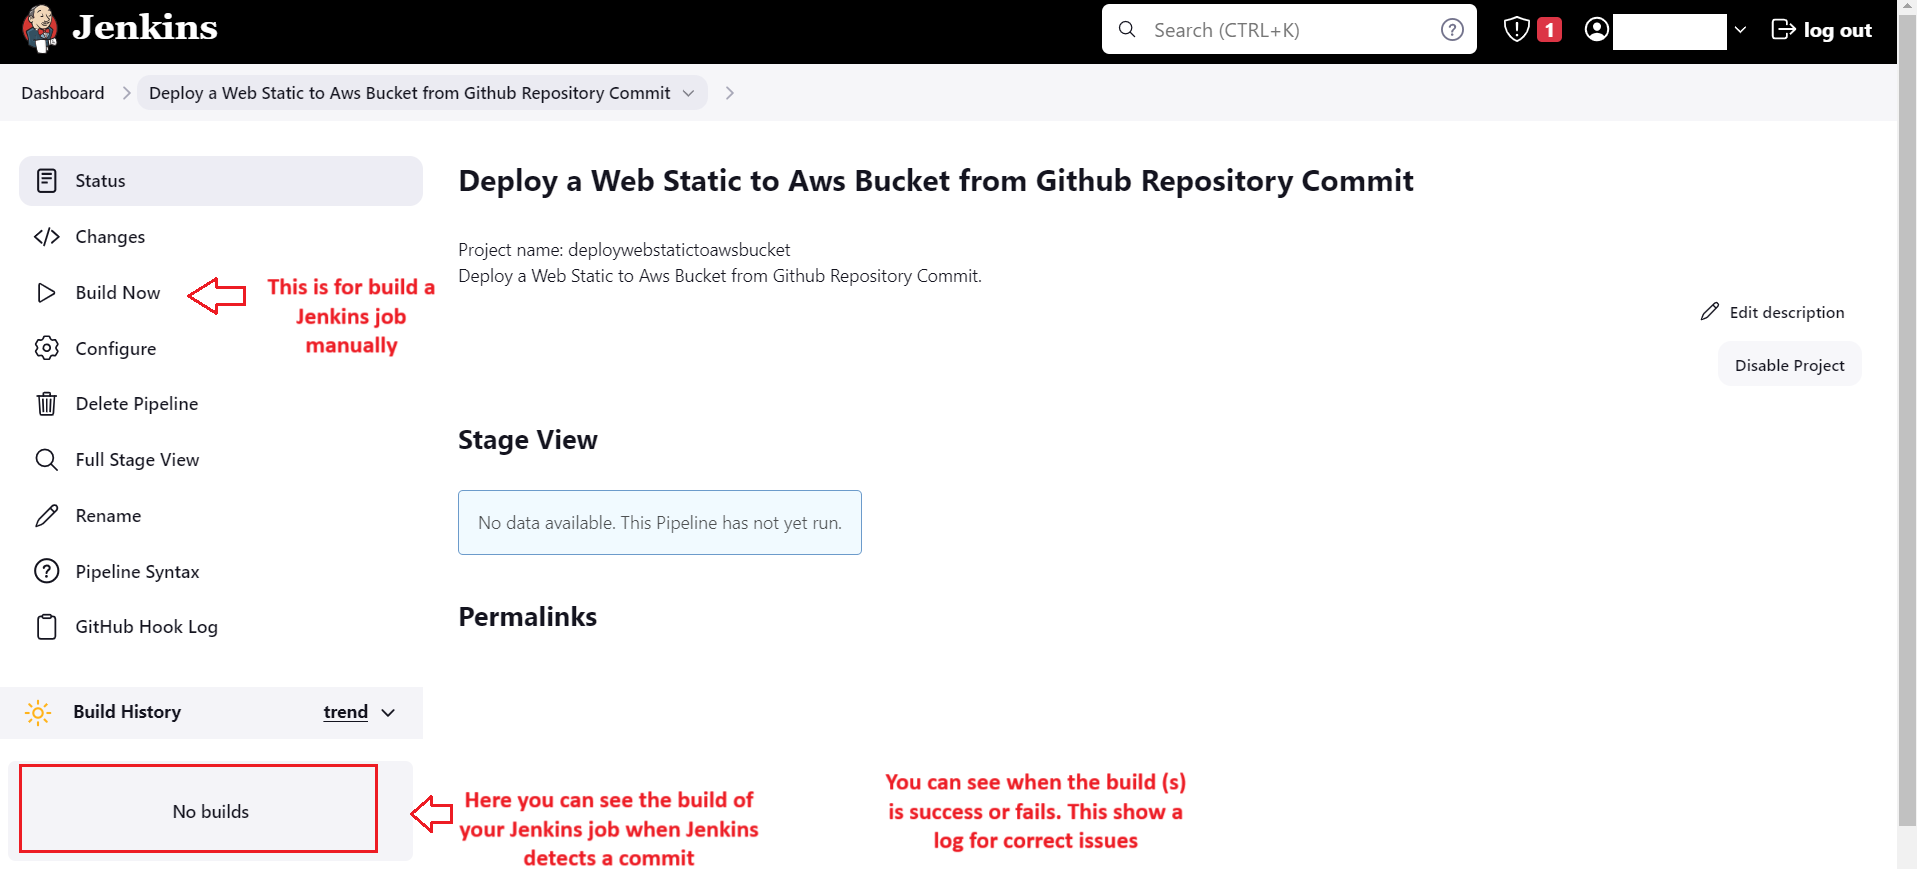
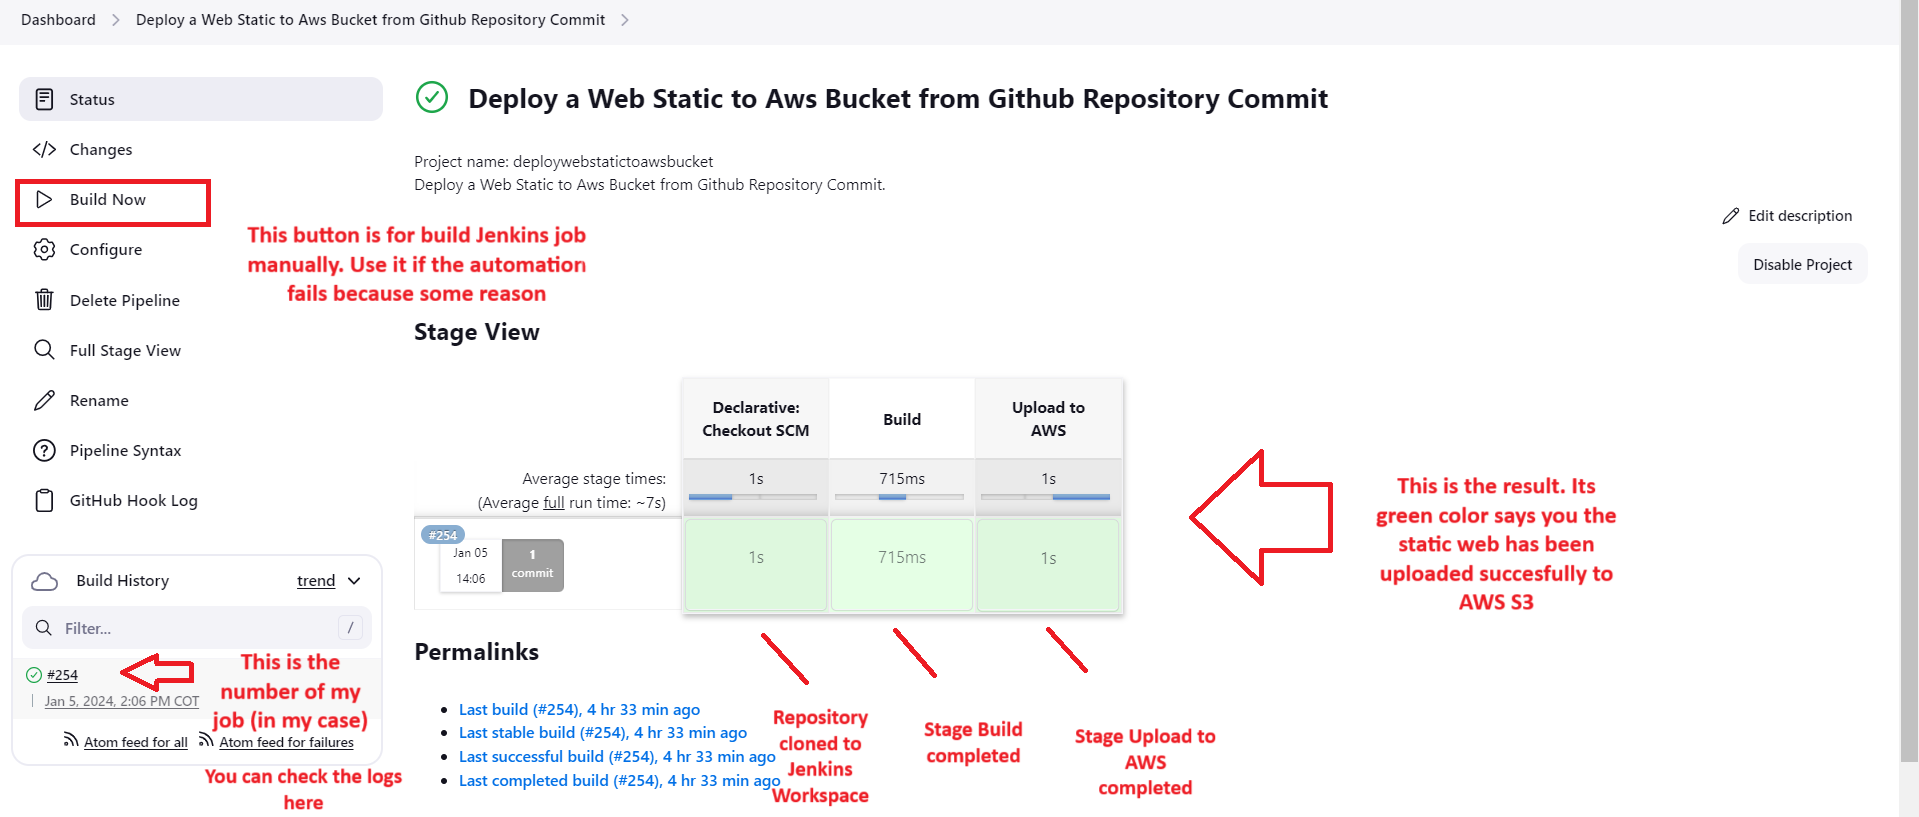
push

diff --git a/Devops-pipeline-with-jenkins-bucketS3-github/Readme.md b/Devops-pipeline-with-jenkins-bucketS3-github/Readme.md
@@ -9,7 +9,7 @@ In the world of software development, ensuring smooth and efficient collaboratio
 
 ## Solution
 
-In this tutorial, we'll create a basic DevOps pipeline using AWS Free Tier services and the open-source tool Jenkins. This pipeline will automate the process of building, testing, and deploying a sample application.
+In this tutorial, we'll create a basic DevOps pipeline using AWS Free Tier services and the open-source tool Jenkins. This pipeline will automate the process of building and deploying a static web from a Github commit pushed.
 
 ## Pipeline Process
 
@@ -33,7 +33,7 @@ If you don't have an AWS account, sign up for the AWS Free Tier. This tier provi
 
 <span>![</span><span></span><span>]</span><span>(</span><span>![Screenshot](assets/2.2.png)</span><span>)</span>
 
-- Configure security groups to allow inbound traffic on port 8080 for Jenkins and enable SSH.
+- Configure security groups to allow inbound traffic from Anywhere on port 8080 for Jenkins and enable SSH.
 
 <span>![</span><span></span><span>]</span><span>(</span><span>![Screenshot](assets/2.3.png)</span><span>)</span>
 
@@ -114,11 +114,17 @@ If you don't have an AWS account, sign up for the AWS Free Tier. This tier provi
 
 <span>![</span><span></span><span>]</span><span>(</span><span>![Screenshot](assets/5.5.png)</span><span>)</span>
 
-#### Step 6: Create a Github Repository and Clone it on Your Local Machine
+#### Step 6: Create a Github Repository, Clone it on Your Local Machine and configure Jenkins with Github
 
 - Create a Github repository called "devops" (or the name you want) wich contains a folder called "jobs"
   and inside this create a file called Dockerfile, a simple static web file (.html) and a jenkinsfile. You can use my Github repository
   and study the code structure inside of each file.
+
+- Configure Jenkins with Github using Github webhooks
+  Link about how to do it: https://www.cprime.com/resources/blog/how-to-integrate-jenkins-github/
+  If the link above fails, you can find information on Google easily.
+
+  Thanks to webhook, Jenkins build will be triggered automatically when a new changes push in the repository. 
 
 #### Step 7: Setup S3 Bucket
 
@@ -163,48 +169,34 @@ Connect the Jenkins with AWS
 
 #### Step 11: Define the JenkinsFile File on Your GitHub Repository
 
-- Define stages on jenkinsFile file of your reository for building, testing, and deploying the static web.
+- Define stages on jenkinsFile file of your reository. For this purpouse I have two stages for building and deploying the    
+  static web. (Build and Ulopad to AWS stages)
 
 ```bash
 
 pipeline {
-    agent any
-
-    environment {
-        # Define AWS credentials from Jenkins credentials store
-        AWS_DEFAULT_REGION = 'your-aws-region'
-        AWS_ACCESS_KEY_ID = credentials('your-aws-access-key-id')
-        AWS_SECRET_ACCESS_KEY = credentials('your-aws-secret-access-key')
-    }
-
-    stages {
-        stage('Clone Repository') {
-            steps {
-                # Checkout the GitHub repository containing the HTML website
-                git 'https://github.com/your-username/your-repo.git'
-            }
-        }
-
-        stage('Deploy to AWS S3') {
-            steps {
-                # Use the AWS Steps Plugin to publish to S3
-                withAWS(region: AWS_DEFAULT_REGION, credentials: 'aws-credentials') {
-                    s3Upload(bucket: 'your-s3-bucket-name', path: 'path/to/your/html/files/*')
-                }
-            }
-        }
-    }
-
-    post {
-        success {
-            echo 'Website deployed successfully to AWS S3!'
-        }
-        failure {
-            echo 'Failed to deploy website to AWS S3'
-        }
-    }
+     agent any
+     stages {
+         stage('Build') {
+             steps {
+                 sh 'echo "Hello World"'
+                 sh '''
+                     echo "Multiline shell steps works too"
+                     ls -lah
+                 '''
+             }
+         }      
+         stage('Upload to AWS') {
+              steps {
+                  withAWS(region:'us-east-1', credentials:'jenkins-user-credentials-for-aws-s3') {
+                  sh 'echo "Uploading content with AWS credentials"'
+                      s3Upload(pathStyleAccessEnabled: true, payloadSigningEnabled: true, file:'Devops-pipeline-with-jenkins-bucketS3-github/static_web', bucket:'yourDomain.com')
+                     
+                  }
+              }
+         }
+     }
 }
-
 
 
 ```
@@ -213,23 +205,55 @@ pipeline {
 
 #### Step 12: Trigger the Pipeline
 
-- Manually trigger the pipeline to observe the stages in action.
+- Make a Github commit from your local repository to upload the static web to your remote Github repository. 
+  Jenkins will detect the Github repository changes throught the configured hook on Github and will trigger the pipeline.
+
+- Go to Jenkins dashboard, find your Jenkins job and click it.
 
 <span>![</span><span></span><span>]</span><span>(</span><span>![Screenshot](assets/12.1.png)</span><span>)</span>
 
-- Verify the deployment of website files on your Aws S3 bucket.
+- Verify the execution of your Jenkins job.
 
 <span>![</span><span></span><span>]</span><span>(</span><span>![Screenshot](assets/12.2.png)</span><span>)</span>
 
-- Verify the deployment of your website on your domain (In my case veggycommon.com).
+- Check the website files have been uploaded to your Aws S3 bucket.
 
 <span>![</span><span></span><span>]</span><span>(</span><span>![Screenshot](assets/12.3.png)</span><span>)</span>
 
+- Verify the deployment of your website on your domain.
+
+<span>![</span><span></span><span>]</span><span>(</span><span>![Screenshot](assets/12.4.png)</span><span>)</span>
 
 
-Congratulations! You've successfully set up a DevOps pipeline using AWS S3 Bucket, GitHub and Jenkins. 
+
+# Congratulations! 
+
+You've successfully set up a DevOps pipeline using AWS S3 Bucket, GitHub and Jenkins. 
 This action is automated, triggering the deployment whenever new code or commit is pushed or any changes are made.
 
 This pipeline can serve as a foundation for expanding your DevOps practices, incorporating additional tools, and automating more aspects of your development lifecycle.
+
+
+# TROUBLESHOOTING ISSUES
+
+Several factors can lead to failures when uploading files from Jenkins to an AWS S3 bucket:
+
+Incorrect Credentials: Ensure that the AWS credentials used in Jenkins have the necessary permissions to access the S3 bucket. Double-check the Access Key ID and Secret Access Key.
+
+Bucket or Object Permissions: Check if the bucket policies or object permissions might be preventing uploads. Verify that the Jenkins process has the necessary write permissions on the S3 bucket.
+
+Network Issues: Sometimes network problems, such as intermittent connectivity or high latency, can cause upload failures. Check the network settings and try uploading at different times to rule out network-related issues.
+
+Plugin Configuration: If you're using a Jenkins plugin to upload files to S3, ensure that the plugin is correctly configured with the right bucket name, region, and other necessary settings.
+
+File Size Limitations: AWS S3 has certain limitations on file sizes. Ensure that the files you're trying to upload do not exceed these limits. If needed, split larger files or adjust settings.
+
+Bucket Name Errors: Confirm that the bucket name is correct and follows AWS naming conventions. It should be unique globally and adhere to naming rules.
+
+Storage Class and Lifecycle Policies: If you've set specific storage classes or lifecycle policies for the S3 bucket, they might affect uploads. Check if these configurations are causing issues.
+
+AWS Service Outages: Sometimes, AWS services might face temporary outages or issues. Checking AWS status pages can confirm if there are ongoing problems with the S3 service.
+
+To troubleshoot, you can check Jenkins logs for error messages or enable verbose logging to get more detailed information about the upload failures. Additionally, testing the upload process manually outside of Jenkins can help isolate whether the issue is specific to Jenkins or a broader problem.
 
 ---
